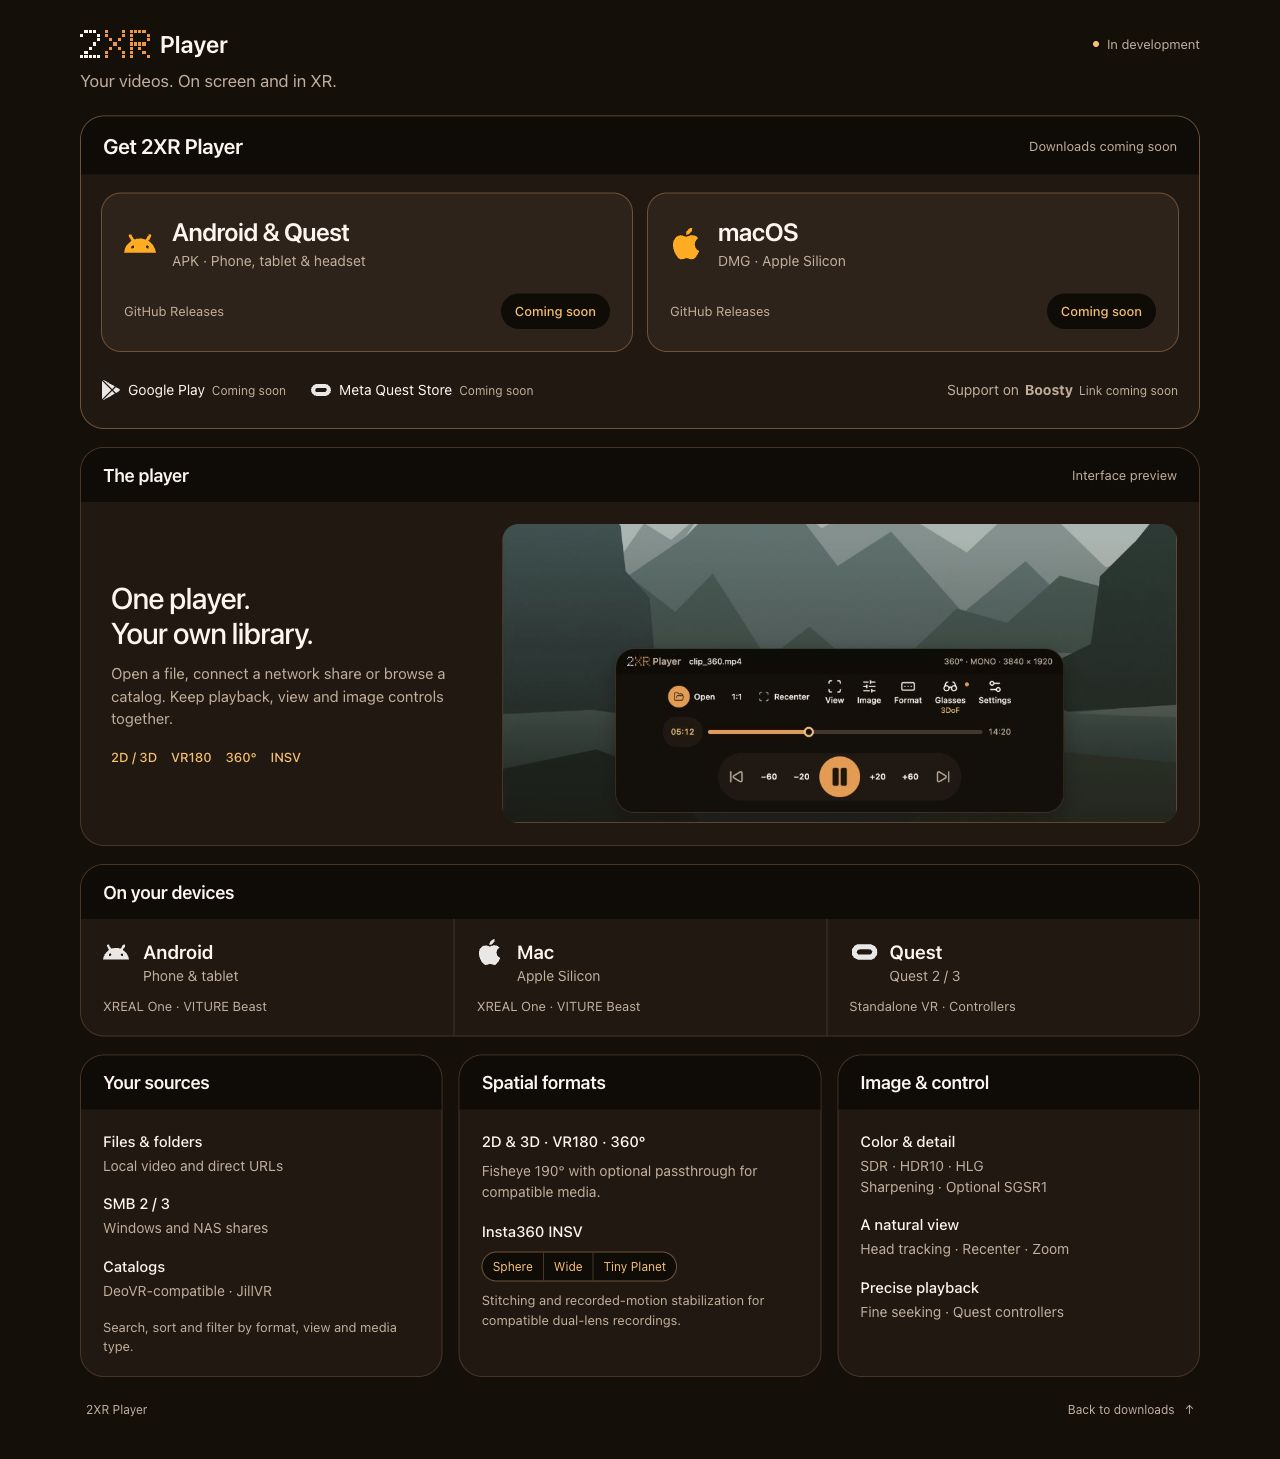
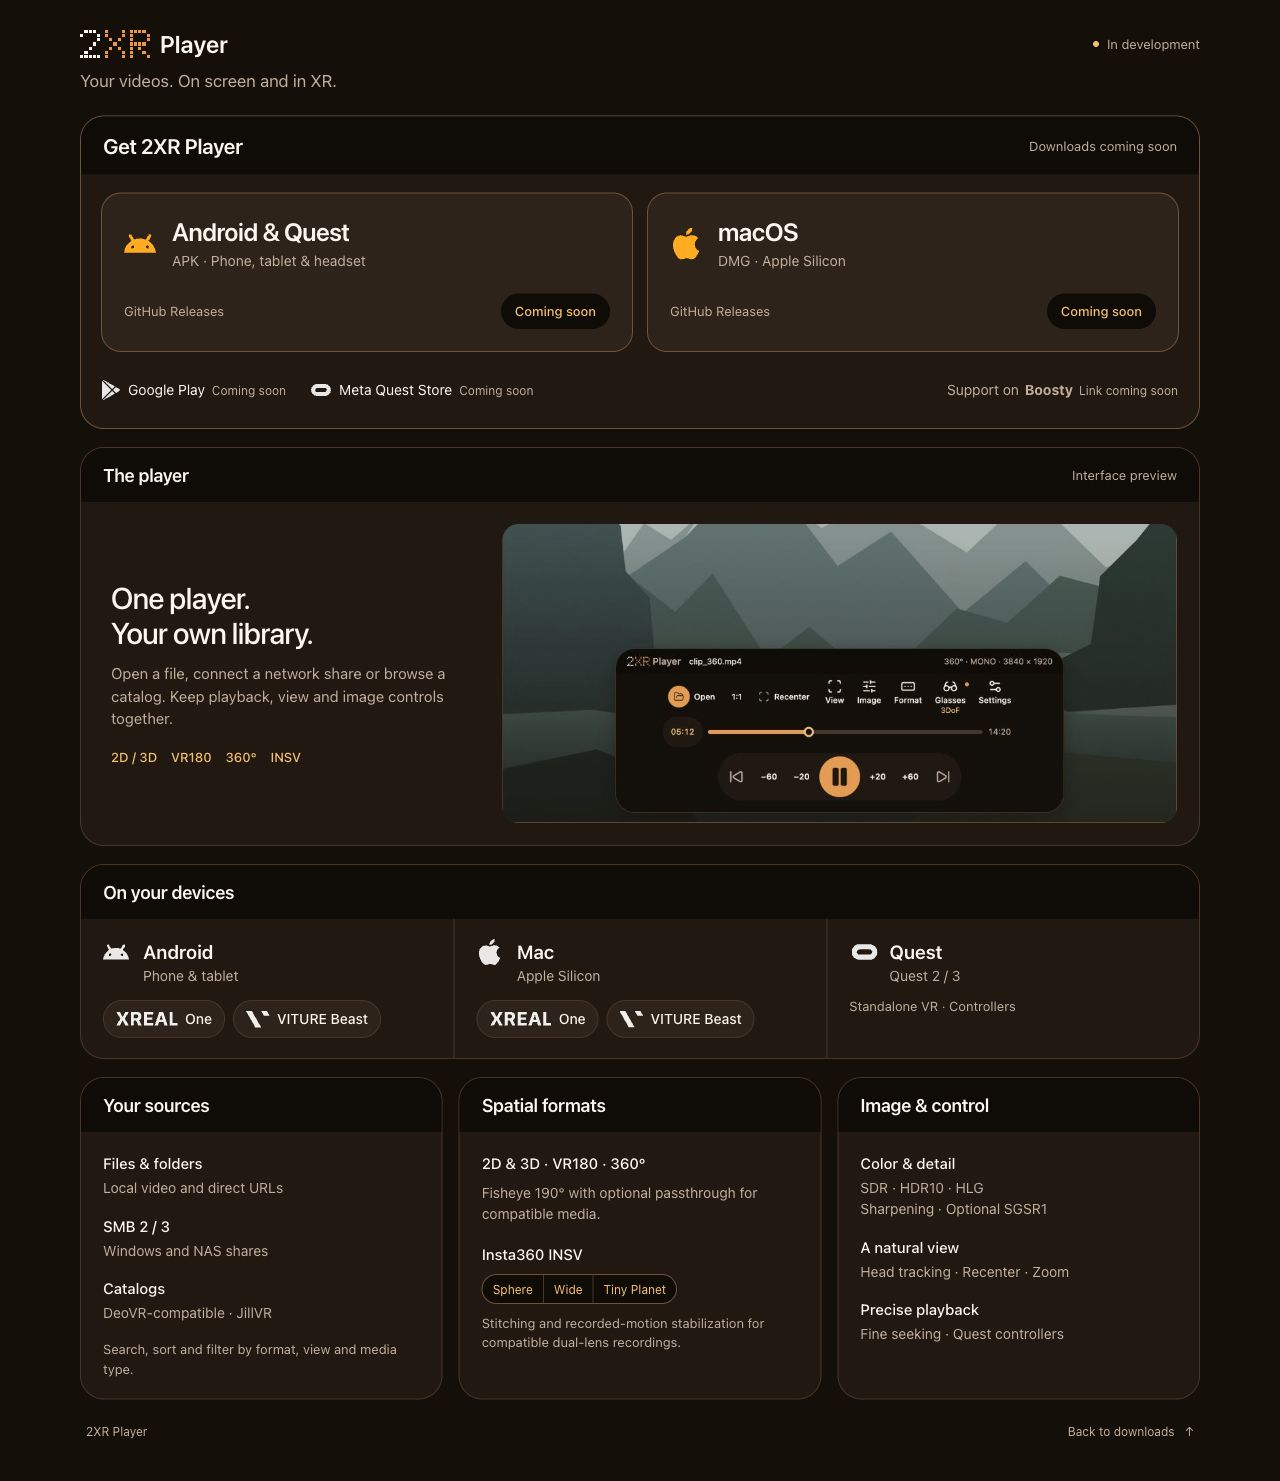
1.0.217: Restore prominent XREAL One and VITURE Beast branding

diff --git a/index.html b/index.html
@@ -12,7 +12,7 @@
     <title>2XR Player — Android, Mac &amp; Quest</title>
     <link rel="canonical" href="https://2xr.me/">
     <link rel="icon" href="assets/favicon.svg?v=3" type="image/svg+xml">
-    <link rel="stylesheet" href="styles.css?v=11">
+    <link rel="stylesheet" href="styles.css?v=12">
   </head>
   <body>
     <main class="page">
@@ -56,8 +56,8 @@
       <section class="panel devices-panel" aria-labelledby="devices-title">
         <div class="panel-heading"><h2 id="devices-title">On your devices</h2></div>
         <div class="device-grid">
-          <article class="device"><img src="assets/icons/android.svg" alt="" width="26" height="26"><h3>Android</h3><p>Phone &amp; tablet</p><p class="device-detail">XREAL One · VITURE Beast</p></article>
-          <article class="device"><img src="assets/icons/apple-silicon.svg" alt="" width="26" height="26"><h3>Mac</h3><p>Apple Silicon</p><p class="device-detail">XREAL One · VITURE Beast</p></article>
+          <article class="device"><img src="assets/icons/android.svg" alt="" width="26" height="26"><h3>Android</h3><p>Phone &amp; tablet</p><ul class="device-glasses" aria-label="Supported XR glasses"><li><img class="glasses-xreal" src="assets/icons/xreal.svg" alt="XREAL" width="62" height="14"><span>One</span></li><li><img src="assets/icons/viture.svg" alt="" width="24" height="24"><span>VITURE Beast</span></li></ul></article>
+          <article class="device"><img src="assets/icons/apple-silicon.svg" alt="" width="26" height="26"><h3>Mac</h3><p>Apple Silicon</p><ul class="device-glasses" aria-label="Supported XR glasses"><li><img class="glasses-xreal" src="assets/icons/xreal.svg" alt="XREAL" width="62" height="14"><span>One</span></li><li><img src="assets/icons/viture.svg" alt="" width="24" height="24"><span>VITURE Beast</span></li></ul></article>
           <article class="device"><img src="assets/icons/oculus.svg" alt="" width="30" height="26"><h3>Quest</h3><p>Quest 2 / 3</p><p class="device-detail">Standalone VR · Controllers</p></article>
         </div>
       </section>

diff --git a/styles.css b/styles.css
@@ -65,11 +65,16 @@ h2 { font-size: 18px; line-height: 26px; font-weight: 600; letter-spacing: -.015
 .interface-preview { display: block; min-width: 0; }
 .interface-preview img { display: block; width: 100%; height: auto; border-radius: 16px; }
 .device-grid { display: grid; grid-template-columns: repeat(3, minmax(0, 1fr)); }
-.device { display: grid; grid-template-columns: 30px minmax(0, 1fr); align-items: center; gap: 0 10px; padding: 20px 22px; }
+.device { display: grid; grid-template-columns: 30px minmax(0, 1fr); align-items: center; gap: 0 10px; padding: 20px 22px; align-content: start; }
 .device + .device { border-left: 1px solid var(--quiet-line); }
 .device h3 { font-size: 19px; line-height: 26px; font-weight: 600; }
 .device > p { grid-column: 2; color: var(--muted); font-size: 14px; }
 .device .device-detail { grid-column: 1 / -1; margin-top: 10px; font-size: 13px; }
+.device-glasses { grid-column: 1 / -1; display: flex; flex-wrap: wrap; gap: 8px; margin-top: 14px; }
+.device-glasses li { display: inline-flex; align-items: center; gap: 7px; min-height: 38px; padding: 6px 12px; border: 1px solid var(--quiet-line); border-radius: 999px; background: var(--surface); color: var(--text); font-size: 14px; font-weight: 500; white-space: nowrap; }
+.device-glasses img { display: block; width: 24px; height: 24px; object-fit: contain; }
+.device-glasses .glasses-xreal { width: 62px; height: 14px; }
+
 .feature-grid { display: grid; grid-template-columns: repeat(3, minmax(0, 1fr)); gap: 16px; margin-top: 18px; }
 .feature-content { padding: 20px 22px; color: var(--muted); font-size: 14px; line-height: 1.5; }
 .feature-list { display: grid; gap: 16px; }

diff --git a/README.md b/README.md
@@ -47,6 +47,8 @@ natural scrolling and stacks downloads before product information on phones.
 The interface images are cropped screenshots of the approved HTML design reference,
 not claims about installed-player or device verification. Their source is
 `docs/player/ui-plans/capsule-2026-10-03` in the player repository.
+Android and Mac compatibility includes prominent XREAL One and VITURE Beast
+labels with their original brand marks. These are display labels, not controls.
 Icon sources and license notices are under `assets/icons/`.
 
 ## Deployment
